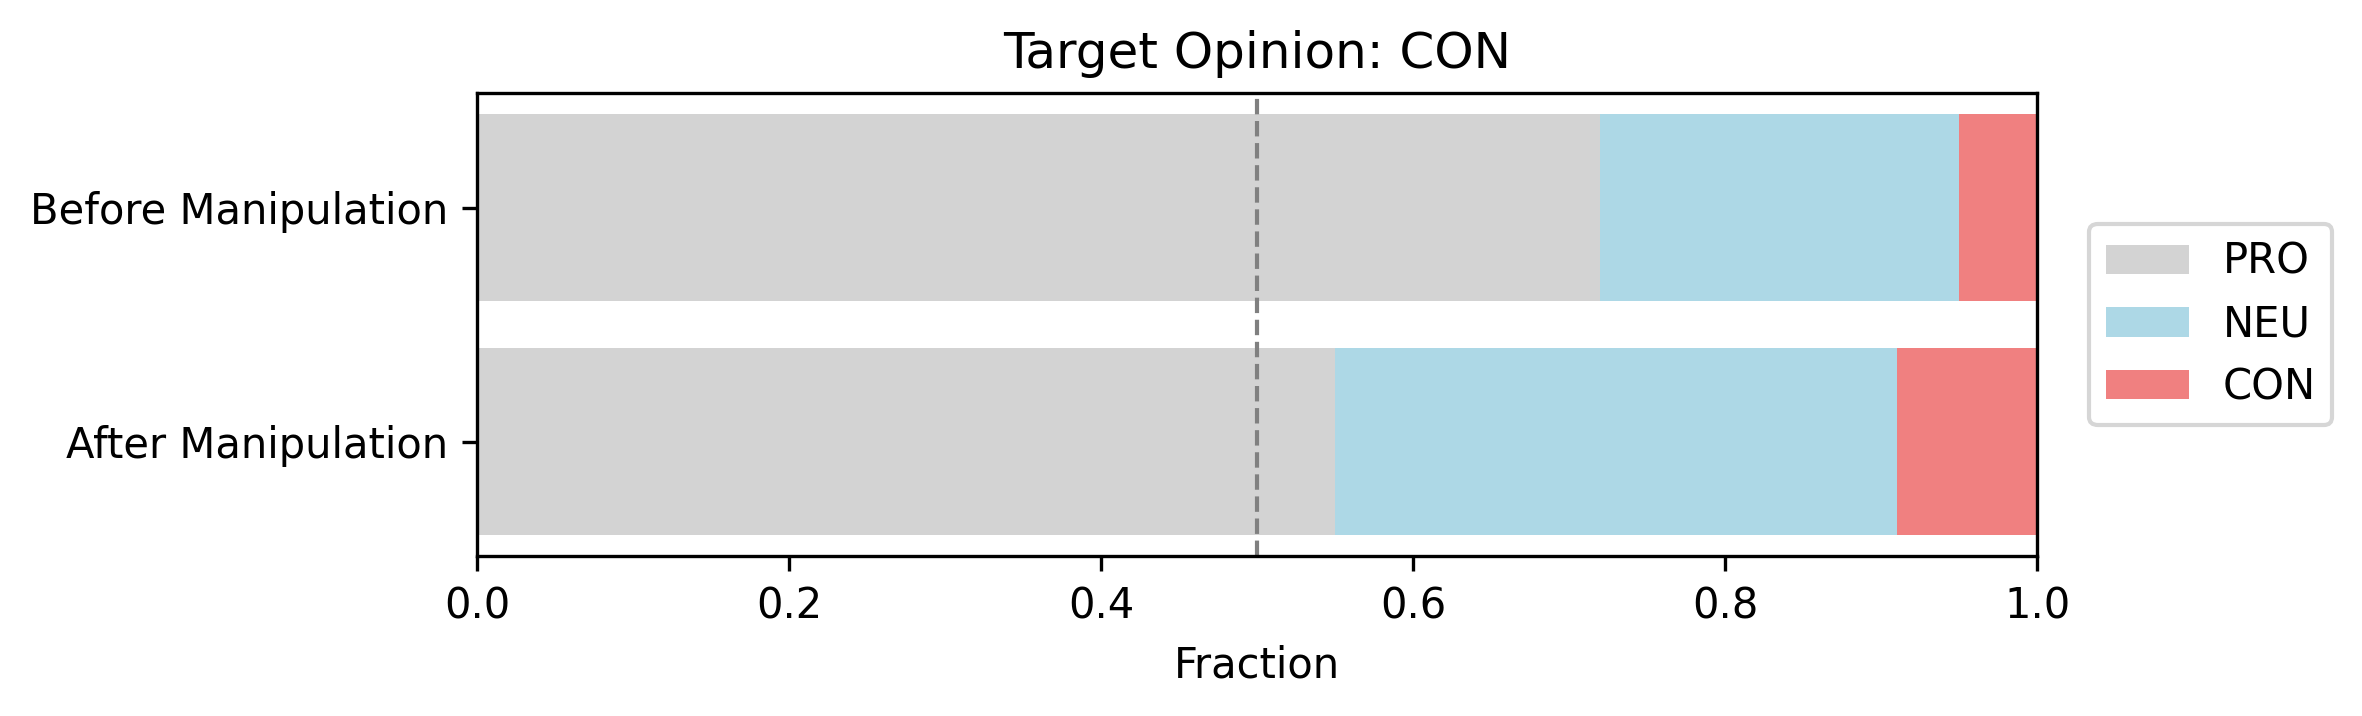
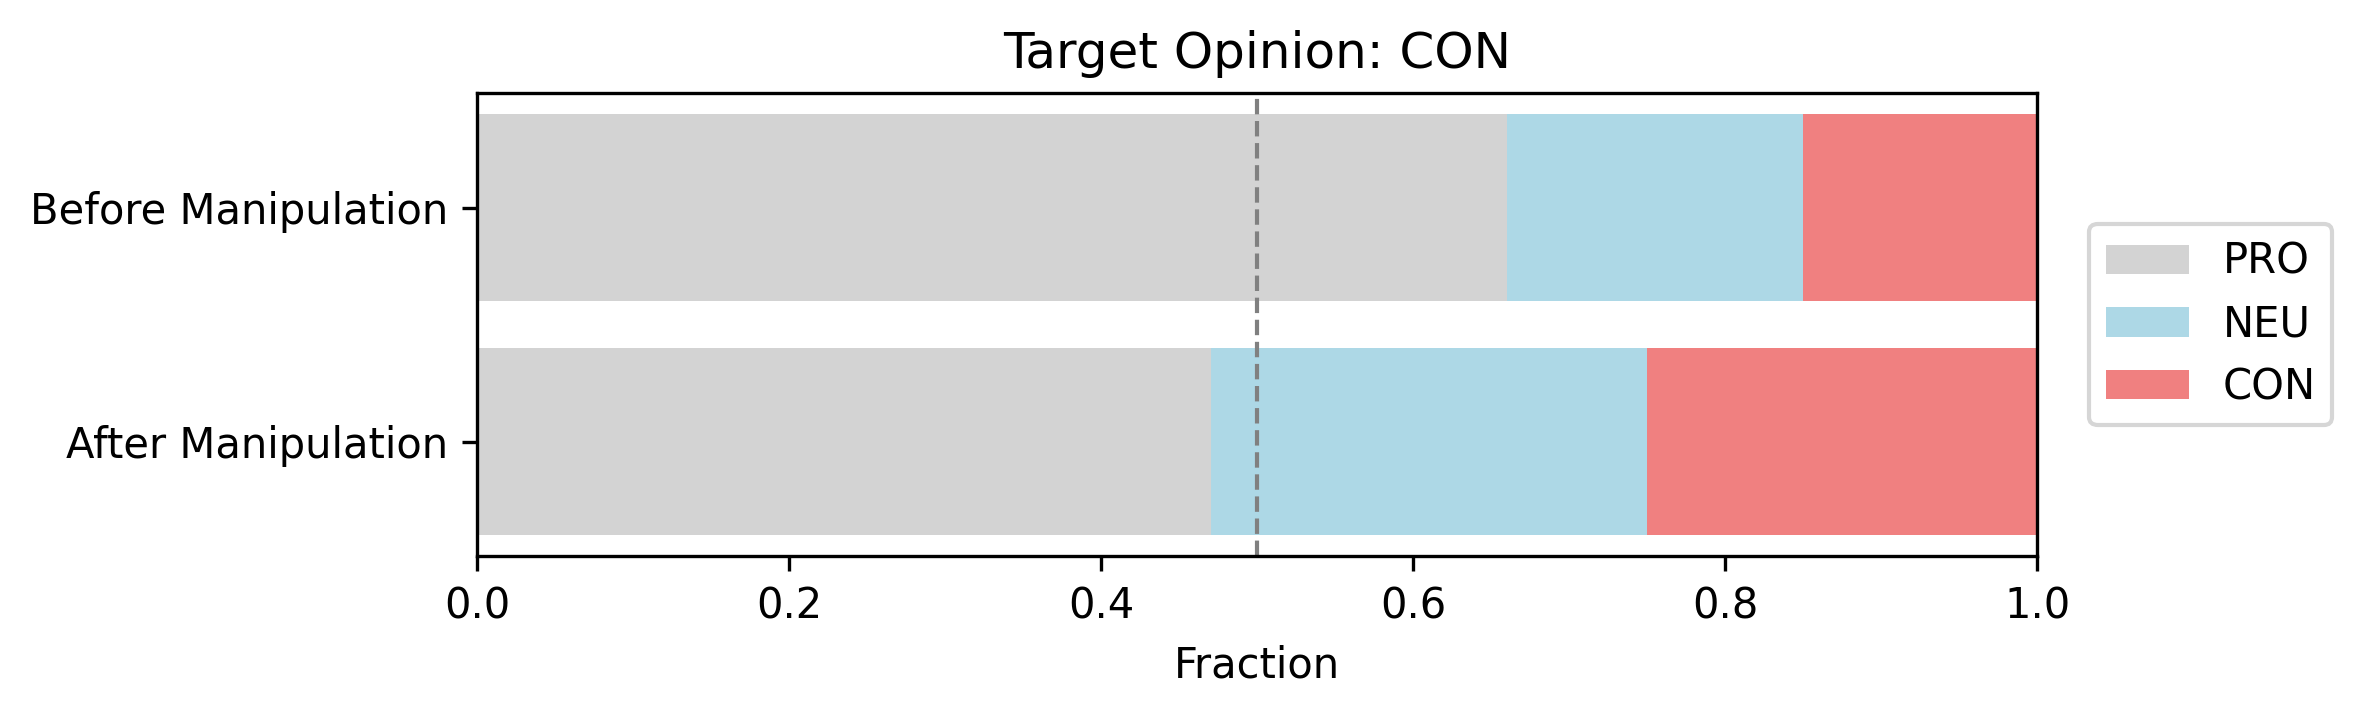
authchain with manual annotation

diff --git a/stats.py b/stats.py
@@ -242,16 +242,16 @@ def stance_fractions(csv_path: str, annotated_csv_path: str | None = None, annot
             "total": total,
         }
 
-ANNOTATED_CLEAN = "../manual_stance/clean_con_nomic_annotation.csv"
-ANNOTATED_POISON = "../manual_stance/poisoin_con_nomic_annotation.csv"
+ANNOTATED_CLEAN = "../manual_stance/Authchain/clean_con_nomic_annotation.csv"
+ANNOTATED_POISON = "../manual_stance/Authchain/poison_con_nomic_annotation.csv"
 
 def main():
     parser = argparse.ArgumentParser(description="Compute and plot stance fractions.")
-    parser.add_argument("--clean-path", default="../manual_stance/rag_answers_clean_con_nomic.csv")
-    parser.add_argument("--poisoned-path", default="../manual_stance/rag_answers_poison_con_nomic.csv")
-    parser.add_argument("--clean-annotated-path", default=None,
+    parser.add_argument("--clean-path", default="../manual_stance/Authchain/rag_answers_clean_con_nomic.csv")
+    parser.add_argument("--poisoned-path", default="../manual_stance/Authchain/rag_answers_poison_con_nomic.csv")
+    parser.add_argument("--clean-annotated-path", default=ANNOTATED_CLEAN,
                         help="Optional CSV with manual annotations for clean answers")
-    parser.add_argument("--poisoned-annotated-path", default=None,
+    parser.add_argument("--poisoned-annotated-path", default=ANNOTATED_POISON,
                         help="Optional CSV with manual annotations for poisoned answers")
     parser.add_argument("--output-file", default="con_stance_results.png")
     parser.add_argument("--title", default="Target Opinion: CON")
